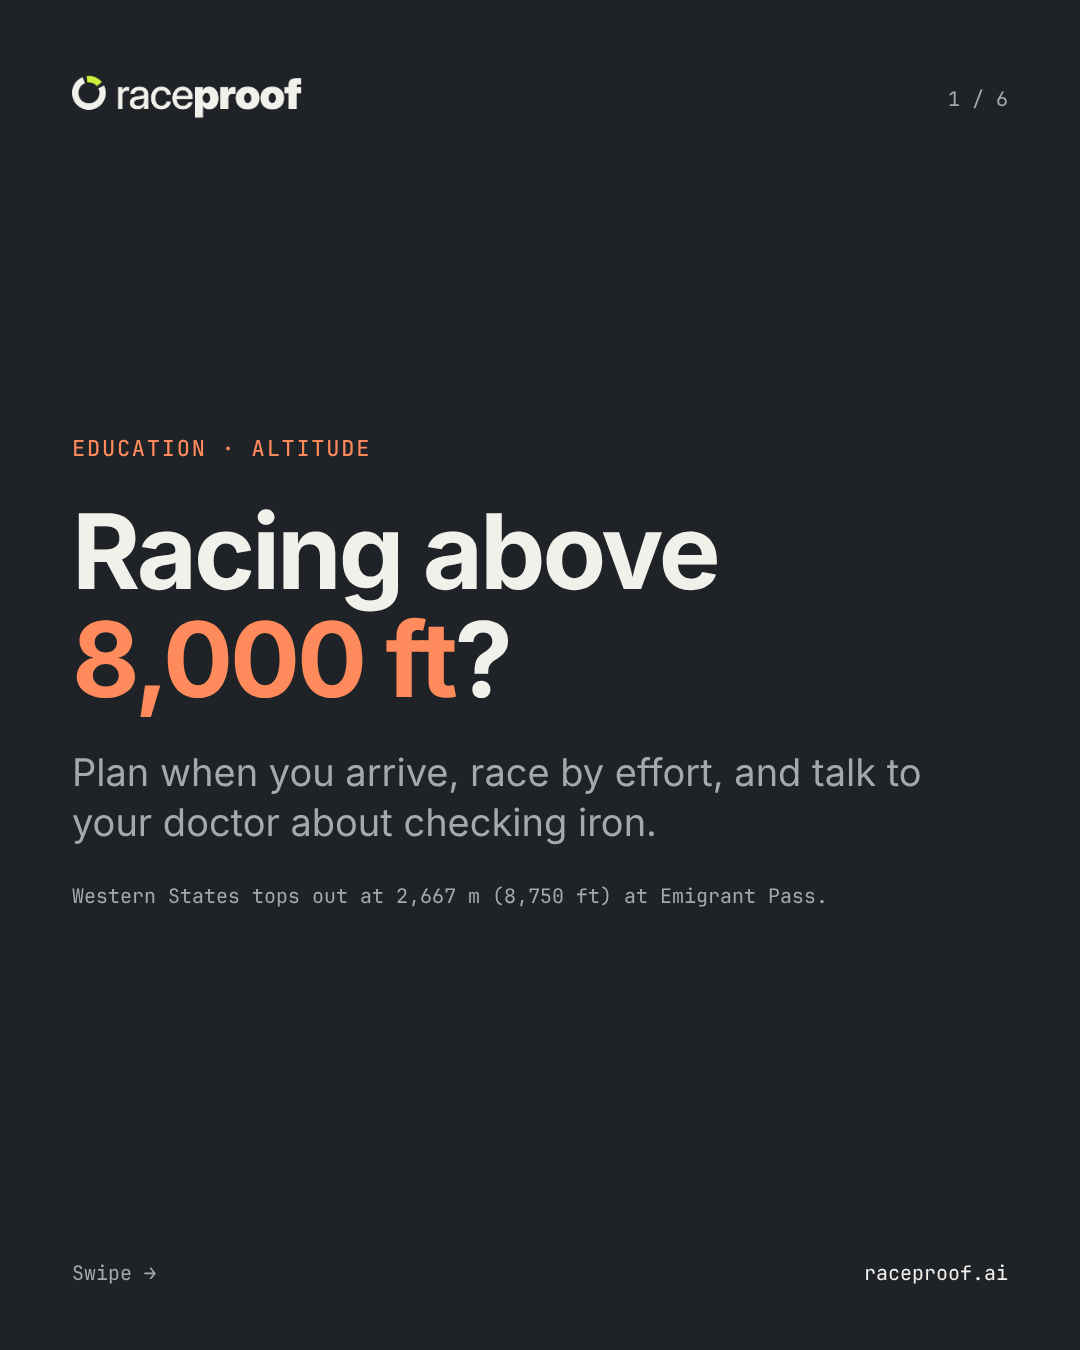
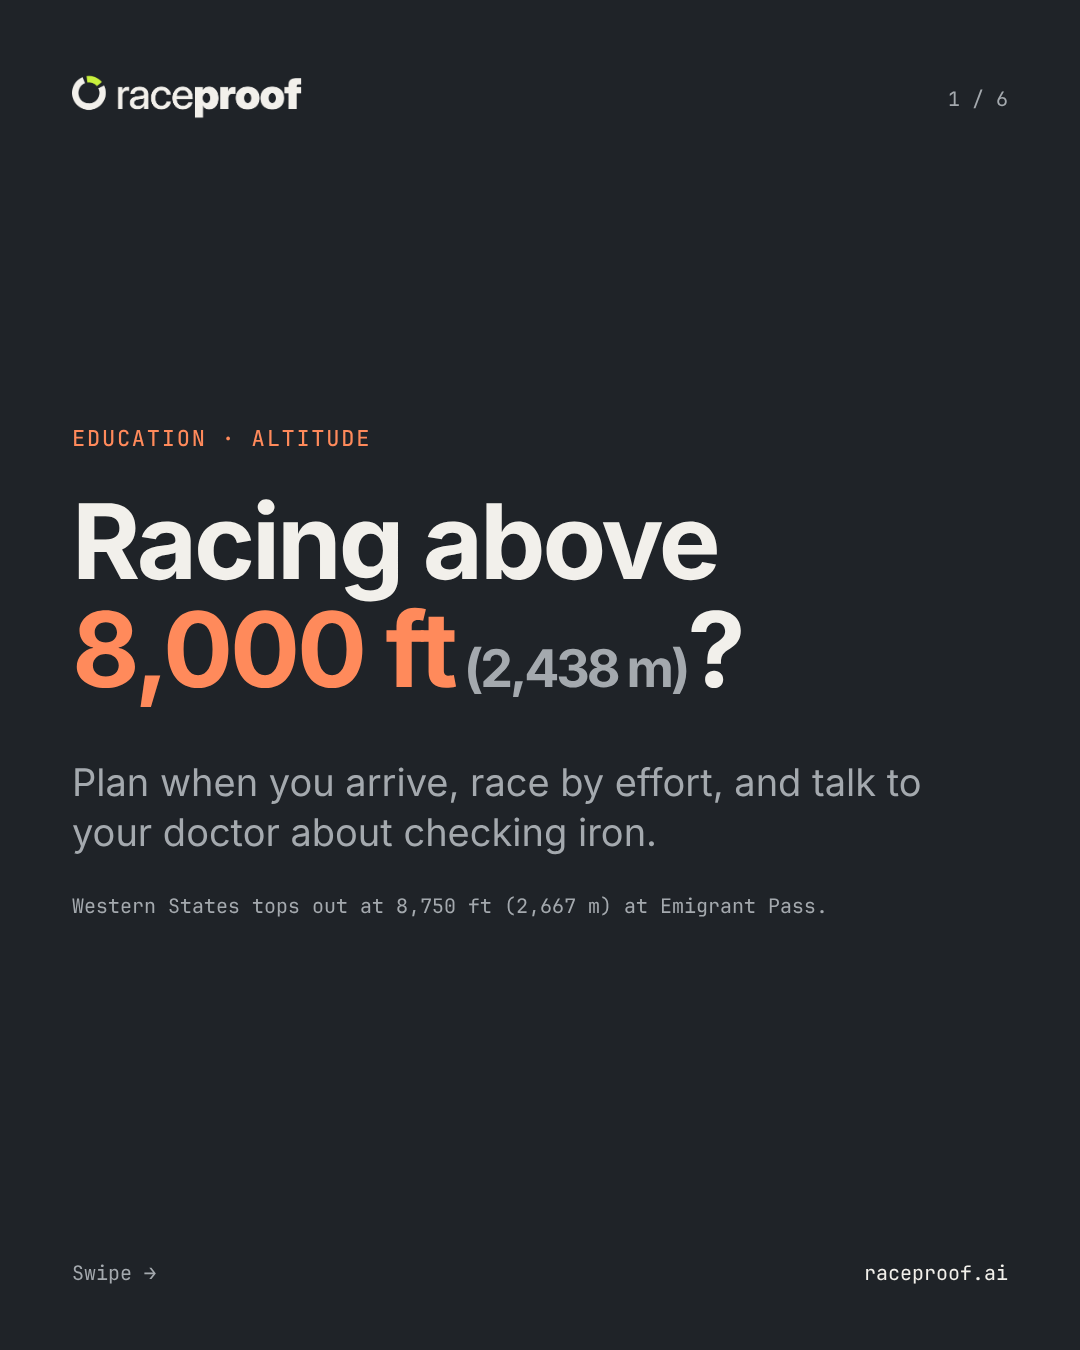
Altitude post: imperial first with metric in parentheses on slides, captions and alt text
Claude-Session: https://claude.ai/code/session_01HnAGBKS3TMRPuz6YDVU3Ja

diff --git a/posts/2026-10-26/sat-edu-altitude-6.html b/posts/2026-10-26/sat-edu-altitude-6.html
@@ -11,7 +11,7 @@
 <div class="mono" style="font-size:22px;font-weight:500;letter-spacing:0.08em;color:#A4A9AE">STAY SAFE</div>
 <h2 style="margin:0;font-size:70px;line-height:76px;font-weight:800;letter-spacing:-0.02em">Headache, nausea or breathless at rest? Slow down or descend.</h2>
 <p style="margin:0;font-size:32px;line-height:44px;color:#A4A9AE">Heart or lung condition? Talk to your doctor before you go high. Ask about checking your iron too.</p>
-<div style="background:#FFFFFF;color:#15171A;border:1px solid #DDD9D0;border-radius:10px;padding:34px 40px;display:flex;align-items:center;gap:24px"><div style="flex-grow:1;display:flex;flex-direction:column;gap:8px"><div style="font-size:38px;font-weight:600">Altitude</div><div style="font-family:'JetBrains Mono', ui-monospace, monospace;font-size:24px;color:#5B5F64">peaks near 8,750 ft · iron not checked</div></div><div style="padding:12px 26px;border-radius:999px;background:#B42318;color:#FFFFFF;font-size:24px;font-weight:600;flex-shrink:0">Gap</div></div>
+<div style="background:#FFFFFF;color:#15171A;border:1px solid #DDD9D0;border-radius:10px;padding:34px 40px;display:flex;align-items:center;gap:24px"><div style="flex-grow:1;display:flex;flex-direction:column;gap:8px"><div style="font-size:38px;font-weight:600">Altitude</div><div style="font-family:'JetBrains Mono', ui-monospace, monospace;font-size:24px;color:#5B5F64">peaks near 8,750 ft (2,667 m) · iron not checked</div></div><div style="padding:12px 26px;border-radius:999px;background:#B42318;color:#FFFFFF;font-size:24px;font-weight:600;flex-shrink:0">Gap</div></div>
 <div style="display:flex;align-self:flex-start;align-items:center;gap:14px;padding:13px 26px 13px 18px;border-radius:999px;background:#2E343A;border:1px solid #4A5057;color:#F2F0EB;font-size:26px;font-weight:600"><svg width="30" height="30" viewBox="0 0 28 28" aria-hidden="true"><path d="M22.61 9.99A9.5 9.5 0 1 1 10.60 5.13" fill="none" stroke="#F2F0EB" stroke-width="4.5"></path><path d="M12.68 4.59A9.5 9.5 0 0 1 21.17 7.77" fill="none" stroke="#C8F03C" stroke-width="4.5"></path></svg><span>Raceproof checks: Altitude</span></div></div>
 <div style="margin-top:auto;padding-top:40px;display:flex;justify-content:space-between;align-items:center;font-family:'JetBrains Mono', ui-monospace, monospace;font-size:20px;color:#A4A9AE">
 <span>Save this for your next build.</span><span style="color:#F2F0EB">raceproof.ai</span></div>

diff --git a/posts/2026-10-26/sat-edu-altitude-3.html b/posts/2026-10-26/sat-edu-altitude-3.html
@@ -12,9 +12,9 @@
 <h2 style="margin:0;font-size:72px;line-height:78px;font-weight:800;letter-spacing:-0.02em">Full acclimatization takes weeks, not days</h2>
 <div style="display:flex;flex-direction:column">
 <div style="display:flex;flex-direction:column;gap:10px;padding:30px 0;border-top:1px solid #3A4047"><div class="mono" style="font-size:104px;line-height:108px;font-weight:600;letter-spacing:-0.03em;color:#FF8A5B">2 to 3<span style="font-size:44px;color:#A4A9AE;margin-left:10px">weeks</span></div><div style="font-size:32px;line-height:42px">for full acclimatization, by coaches’ estimates.</div></div>
-<div style="display:flex;flex-direction:column;gap:10px;padding:30px 0;border-top:1px solid #3A4047"><div class="mono" style="font-size:104px;line-height:108px;font-weight:600;letter-spacing:-0.03em;color:#F2F0EB">2,500<span style="font-size:44px;color:#A4A9AE;margin-left:10px">m</span></div><div style="font-size:32px;line-height:42px">Arriving the evening before or 2 hours before made no difference in one study.</div></div>
+<div style="display:flex;flex-direction:column;gap:10px;padding:30px 0;border-top:1px solid #3A4047"><div class="mono" style="font-size:104px;line-height:108px;font-weight:600;letter-spacing:-0.03em;color:#F2F0EB">8,200<span style="font-size:44px;color:#A4A9AE;margin-left:10px">ft (2,500 m)</span></div><div style="font-size:32px;line-height:42px">Arriving the evening before or 2 hours before made no difference in one study.</div></div>
 </div>
-<div class="mono" style="font-size:20px;line-height:30px;color:#A4A9AE">Pittman (CTS) 2026 and Dudney (UltraRunning): coaching sources · Foss 2017: study at 2,500 m</div></div>
+<div class="mono" style="font-size:20px;line-height:30px;color:#A4A9AE">Pittman (CTS) 2026 and Dudney (UltraRunning): coaching sources · Foss 2017: study at 8,200 ft (2,500 m)</div></div>
 <div style="margin-top:auto;padding-top:40px;display:flex;justify-content:space-between;align-items:center;font-family:'JetBrains Mono', ui-monospace, monospace;font-size:20px;color:#A4A9AE">
 <span></span><span style="color:#F2F0EB">raceproof.ai</span></div>
 </div></body></html>

diff --git a/posts/2026-10-26/sat-edu-altitude-5.html b/posts/2026-10-26/sat-edu-altitude-5.html
@@ -12,7 +12,7 @@
 <h2 style="margin:0;font-size:72px;line-height:78px;font-weight:800;letter-spacing:-0.02em">A short altitude camp teaches you how you respond</h2>
 <div style="display:flex;flex-direction:column">
 <div style="display:flex;flex-direction:column;gap:10px;padding:30px 0;border-top:1px solid #3A4047"><div class="mono" style="font-size:104px;line-height:108px;font-weight:600;letter-spacing:-0.03em;color:#F2F0EB">3 to 5<span style="font-size:44px;color:#A4A9AE;margin-left:10px">days</span></div><div style="font-size:32px;line-height:42px">at altitude, 5 to 8 weeks before the race.</div></div>
-<div style="display:flex;flex-direction:column;gap:10px;padding:30px 0;border-top:1px solid #3A4047"><div class="mono" style="font-size:104px;line-height:108px;font-weight:600;letter-spacing:-0.03em;color:#F2F0EB">1,600<span style="font-size:44px;color:#A4A9AE;margin-left:10px">ft</span></div><div style="font-size:32px;line-height:42px">a day at most: how much to raise your sleeping height once you sleep above about 9,000 ft.</div></div>
+<div style="display:flex;flex-direction:column;gap:10px;padding:30px 0;border-top:1px solid #3A4047"><div class="mono" style="font-size:104px;line-height:108px;font-weight:600;letter-spacing:-0.03em;color:#F2F0EB">1,600<span style="font-size:44px;color:#A4A9AE;margin-left:10px">ft (490 m)</span></div><div style="font-size:32px;line-height:42px">a day at most: how much to raise your sleeping height once you sleep above about 9,000 ft (2,740 m).</div></div>
 </div>
 <div class="mono" style="font-size:20px;line-height:30px;color:#A4A9AE">Pittman (CTS) 2026 · coaching practice, not a study</div></div>
 <div style="margin-top:auto;padding-top:40px;display:flex;justify-content:space-between;align-items:center;font-family:'JetBrains Mono', ui-monospace, monospace;font-size:20px;color:#A4A9AE">

diff --git a/posts/2026-10-26/sat-edu-altitude-1.html b/posts/2026-10-26/sat-edu-altitude-1.html
@@ -9,9 +9,9 @@
 
 <div style="margin-top:auto;display:flex;flex-direction:column;gap:34px">
 <div class="mono" style="font-size:22px;font-weight:500;letter-spacing:0.08em;color:#FF8A5B">EDUCATION · ALTITUDE</div>
-<h1 style="margin:0;font-size:104px;line-height:108px;font-weight:800;letter-spacing:-0.03em">Racing above <span style="color:#FF8A5B">8,000&nbsp;ft</span>?</h1>
+<h1 style="margin:0;font-size:104px;line-height:108px;font-weight:800;letter-spacing:-0.03em">Racing above <span style="color:#FF8A5B">8,000&nbsp;ft</span><span style="font-size:52px;color:#A4A9AE"> (2,438&nbsp;m)</span>?</h1>
 <p style="margin:0;font-size:38px;line-height:50px;color:#A4A9AE">Plan when you arrive, race by effort, and talk to your doctor about checking iron.</p>
-<div class="mono" style="font-size:20px;line-height:30px;color:#A4A9AE">Western States tops out at 2,667 m (8,750 ft) at Emigrant Pass.</div>
+<div class="mono" style="font-size:20px;line-height:30px;color:#A4A9AE">Western States tops out at 8,750 ft (2,667 m) at Emigrant Pass.</div>
 </div>
 <div style="margin-top:auto;padding-top:40px;display:flex;justify-content:space-between;align-items:center;font-family:'JetBrains Mono', ui-monospace, monospace;font-size:20px;color:#A4A9AE">
 <span>Swipe →</span><span style="color:#F2F0EB">raceproof.ai</span></div>
